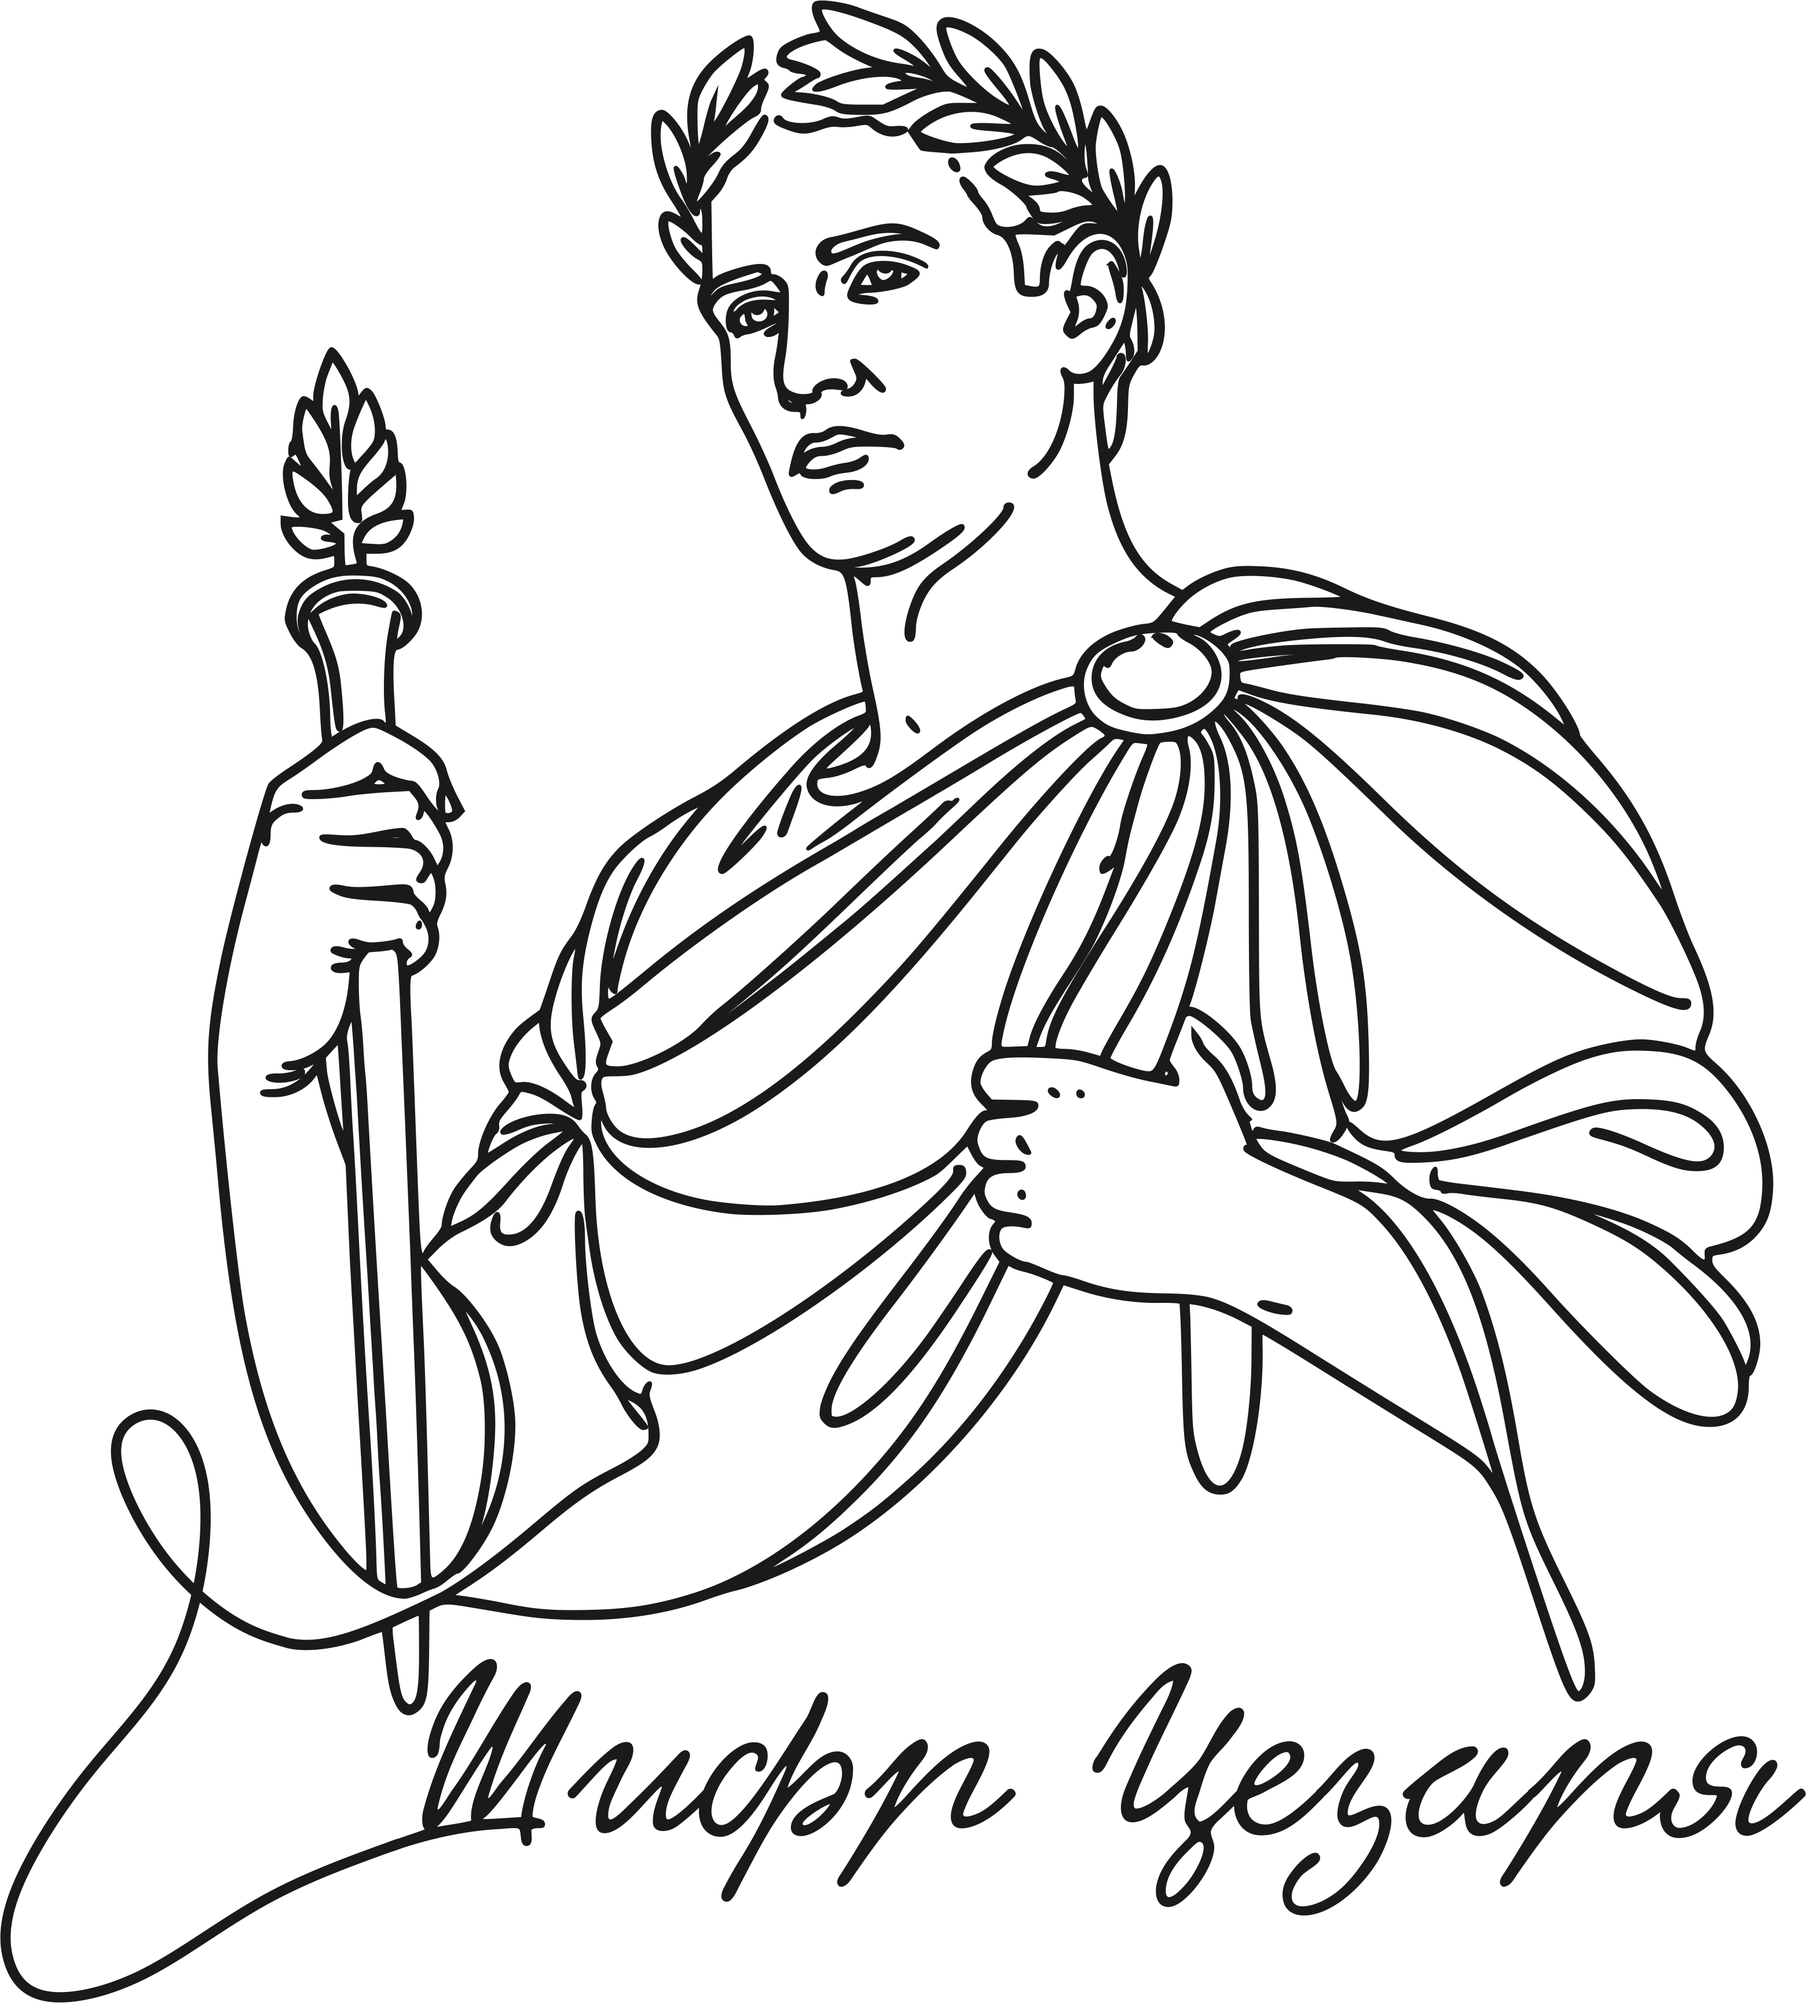
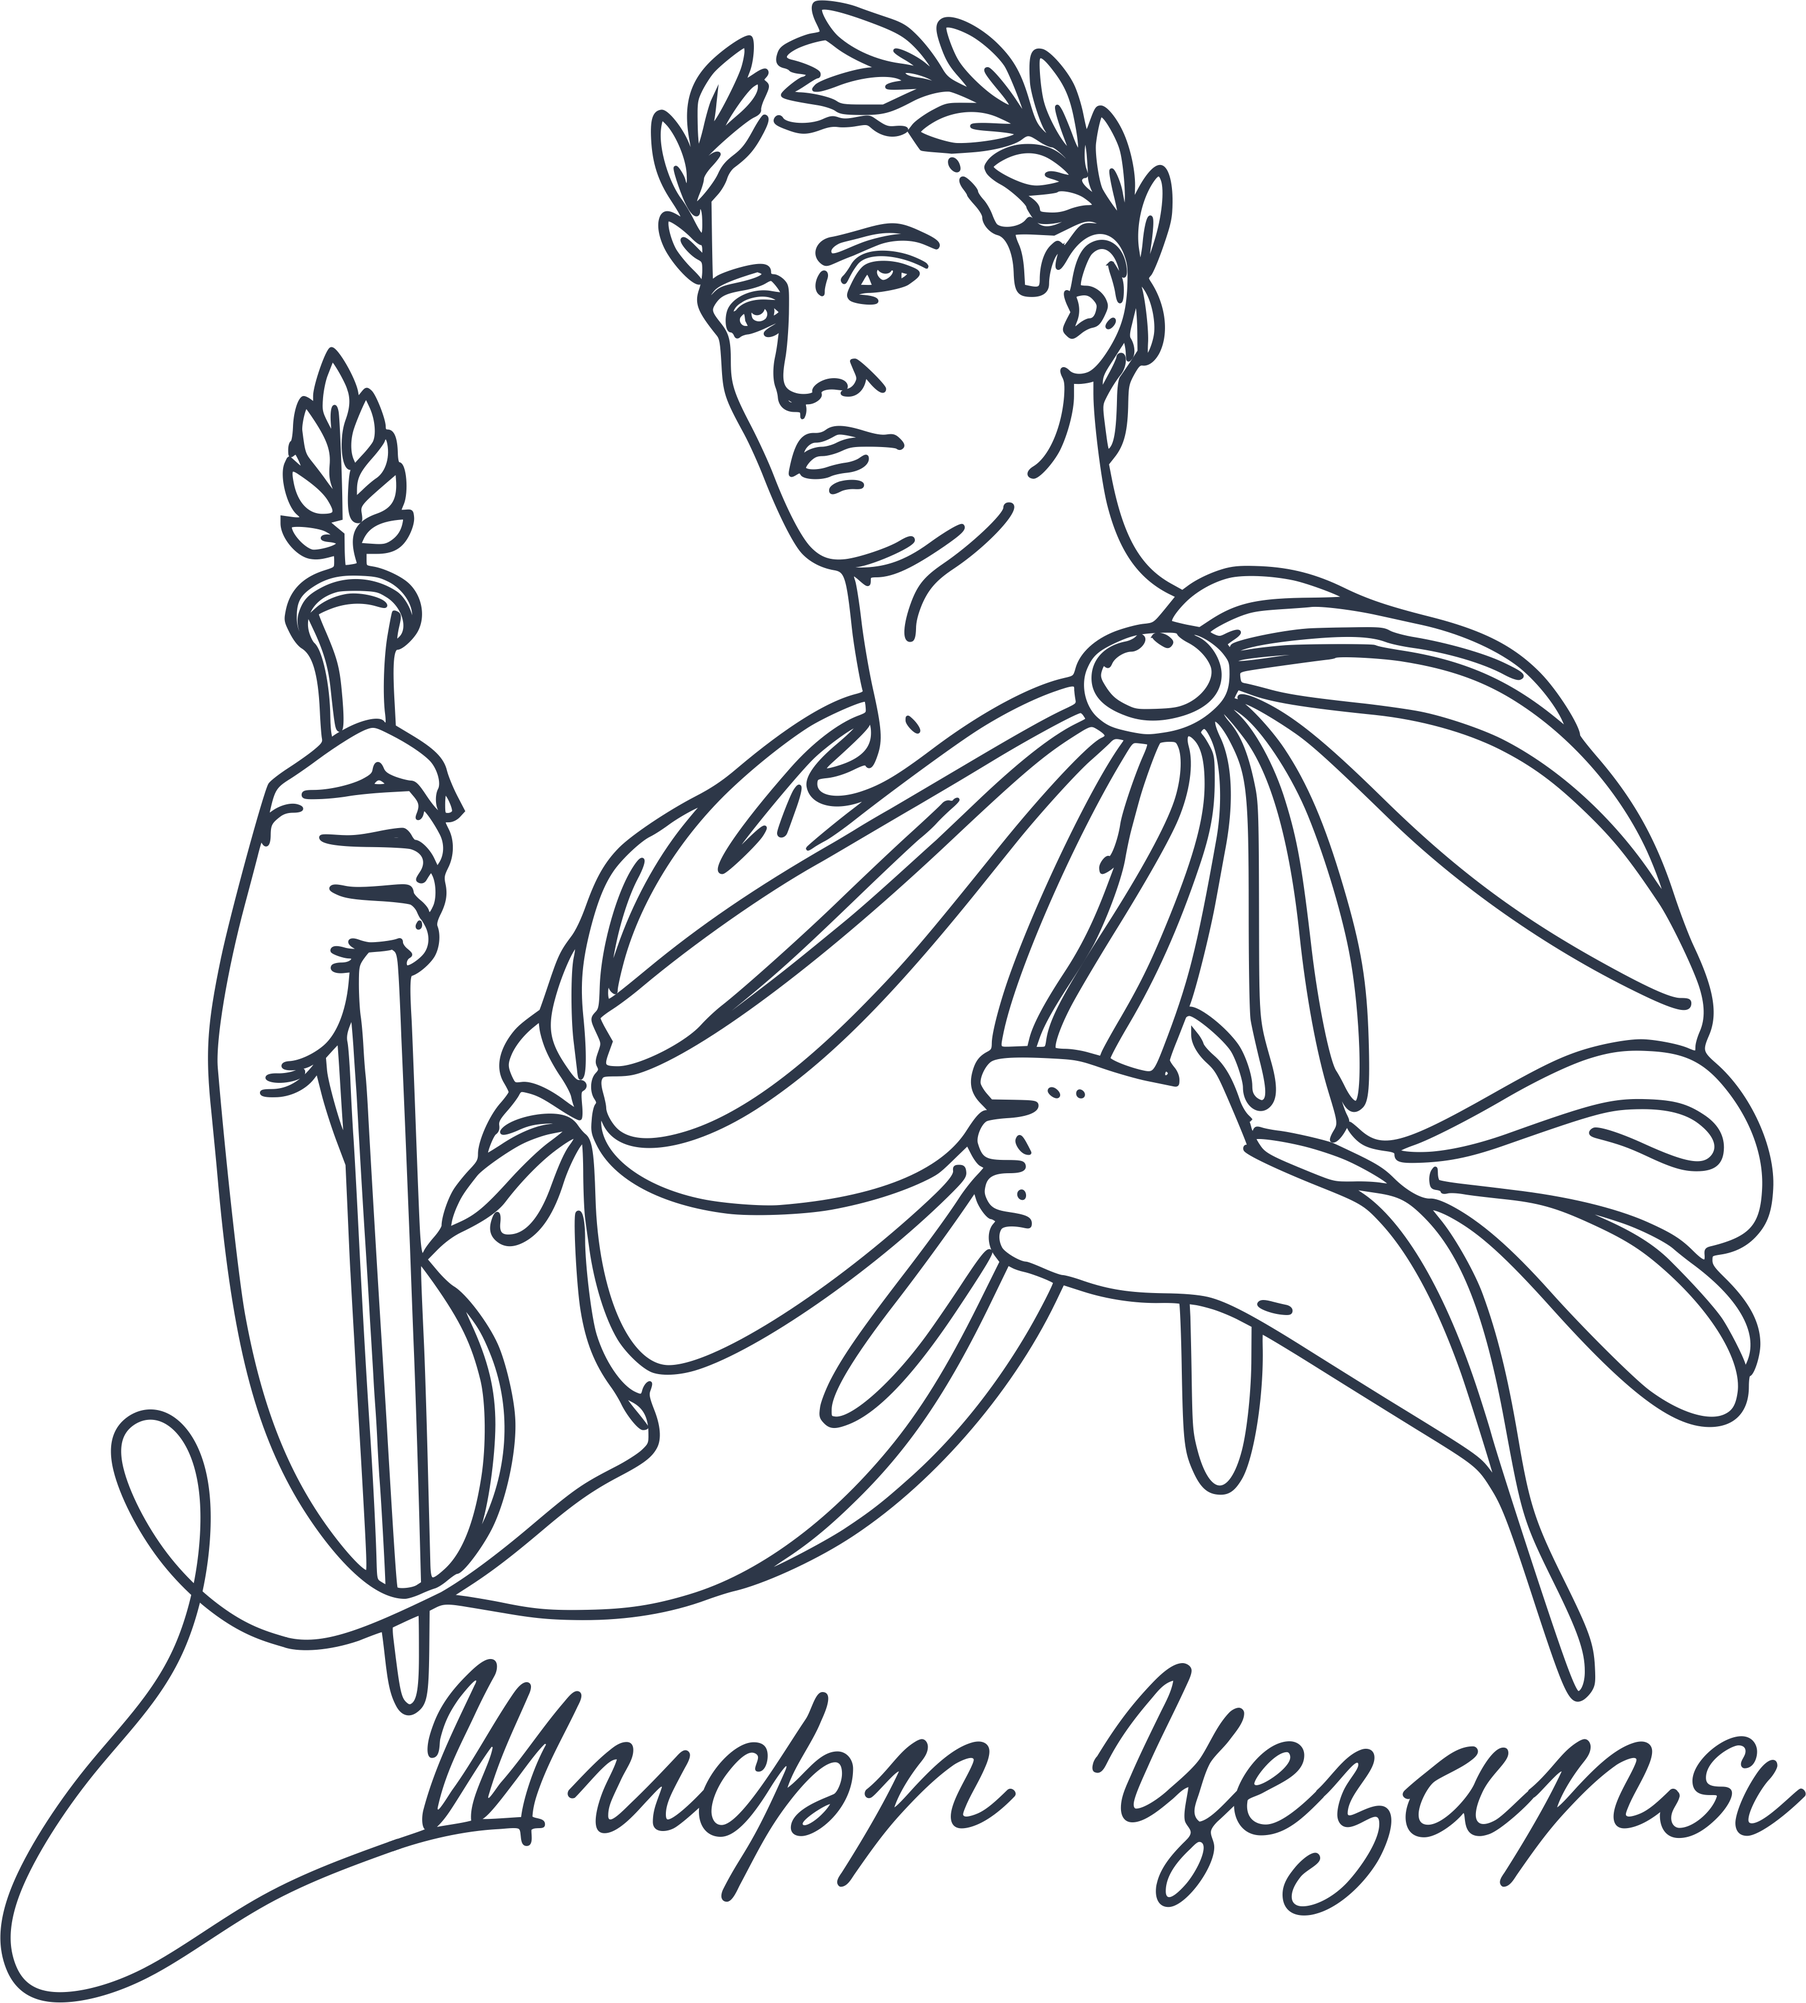
feat: Add PWA functionality and UI fixes

diff --git a/sw.js b/sw.js
@@ -1,0 +1,54 @@
+const CACHE_NAME = 'cesar-cipher-cache-v1';
+const urlsToCache = [
+  './', // Cache the index.html
+  './index.html',
+  './style.css',
+  './main.js',
+  './image/Cesar.png',
+  './image/Cesar_2.png',
+  './ico/android-chrome-192x192.png',
+  './ico/android-chrome-512x512.png',
+  './ico/apple-touch-icon.png',
+  './ico/favicon-16x16.png',
+  './ico/favicon-32x32.png',
+  './ico/favicon.ico',
+  './site.webmanifest'
+];
+
+self.addEventListener('install', (event) => {
+  event.waitUntil(
+    caches.open(CACHE_NAME)
+      .then((cache) => {
+        console.log('Opened cache');
+        return cache.addAll(urlsToCache);
+      })
+  );
+});
+
+self.addEventListener('fetch', (event) => {
+  event.respondWith(
+    caches.match(event.request)
+      .then((response) => {
+        // Cache hit - return response
+        if (response) {
+          return response;
+        }
+        return fetch(event.request);
+      })
+  );
+});
+
+self.addEventListener('activate', (event) => {
+  const cacheWhitelist = [CACHE_NAME];
+  event.waitUntil(
+    caches.keys().then((cacheNames) => {
+      return Promise.all(
+        cacheNames.map((cacheName) => {
+          if (cacheWhitelist.indexOf(cacheName) === -1) {
+            return caches.delete(cacheName);
+          }
+        })
+      );
+    })
+  );
+});

diff --git a/index.html b/index.html
@@ -6,10 +6,14 @@
     <title>Шифратор Цезаря UA</title>
     <link href="https://fonts.googleapis.com/css2?family=Roboto:wght@400;700;900&display=swap" rel="stylesheet">
     <link rel="stylesheet" href="style.css">
+    <link rel="manifest" href="site.webmanifest">
+    <meta name="theme-color" content="#2d3748">
 </head>
 <body>
 
     <div class="main-wrapper">
+
+        <button class="close-app-btn" onclick="window.close()">✕</button>
       
         <img src="image/Cesar.png" class="top-logo" alt="Цезар">
 
@@ -101,5 +105,18 @@
     </div>
 
     <script src="main.js" defer></script>
+    <script>
+        if ('serviceWorker' in navigator) {
+            window.addEventListener('load', () => {
+                navigator.serviceWorker.register('./sw.js')
+                    .then(registration => {
+                        console.log('ServiceWorker registration successful with scope: ', registration.scope);
+                    })
+                    .catch(err => {
+                        console.log('ServiceWorker registration failed: ', err);
+                    });
+            });
+        }
+    </script>
 </body>
 </html>

diff --git a/style.css b/style.css
@@ -1,6 +1,6 @@
 :root {
-    --bg-color: rgb(230, 240, 250);
-    --accent-color: #000000;
+    --bg-color: #f0f2f5;
+    --accent-color: #2d3748;
     --red-color: #e53e3e;
     --container-max-width: 600px;
 }
@@ -124,3 +124,34 @@ textarea:focus { border-color: var(--red-color); }
 .wiki-content ul { margin: 0 0 15px; padding-left: 20px; }
 .wiki-content li { margin-bottom: 8px; font-size: 14px; }
 .wiki-content strong { color: var(--red-color); }
+
+/* PWA Close Button */
+.close-app-btn {
+    display: none; /* Hidden by default */
+    position: absolute;
+    top: 15px;
+    right: 15px;
+    width: 30px;
+    height: 30px;
+    background: rgba(0,0,0,0.1);
+    border: none;
+    border-radius: 50%;
+    color: var(--accent-color);
+    font-size: 16px;
+    font-weight: bold;
+    line-height: 30px;
+    text-align: center;
+    cursor: pointer;
+    z-index: 999;
+}
+
+.close-app-btn:hover {
+    background: rgba(0,0,0,0.2);
+}
+
+/* Show the button only when in standalone (PWA) mode */
+@media (display-mode: standalone) {
+    .close-app-btn {
+        display: block;
+    }
+}

diff --git a/main.js b/main.js
@@ -14,7 +14,7 @@ let cumulativeAngle = 0;
 let lastEditedSource = 'input'; 
 
 // --- INITIALIZATION ---
-function init() {
+function performInitialSetup() {
     const outer = document.getElementById('outer-content');
     const inner = document.getElementById('inner-content');
     alpha.forEach((char, i) => {
@@ -133,5 +133,8 @@ function autoResize(textarea) {
 }
 
 // --- START ---
-init();
+// Wait for the document and fonts to be fully loaded before initializing
+document.fonts.ready.then(() => {
+    performInitialSetup();
+});
 
